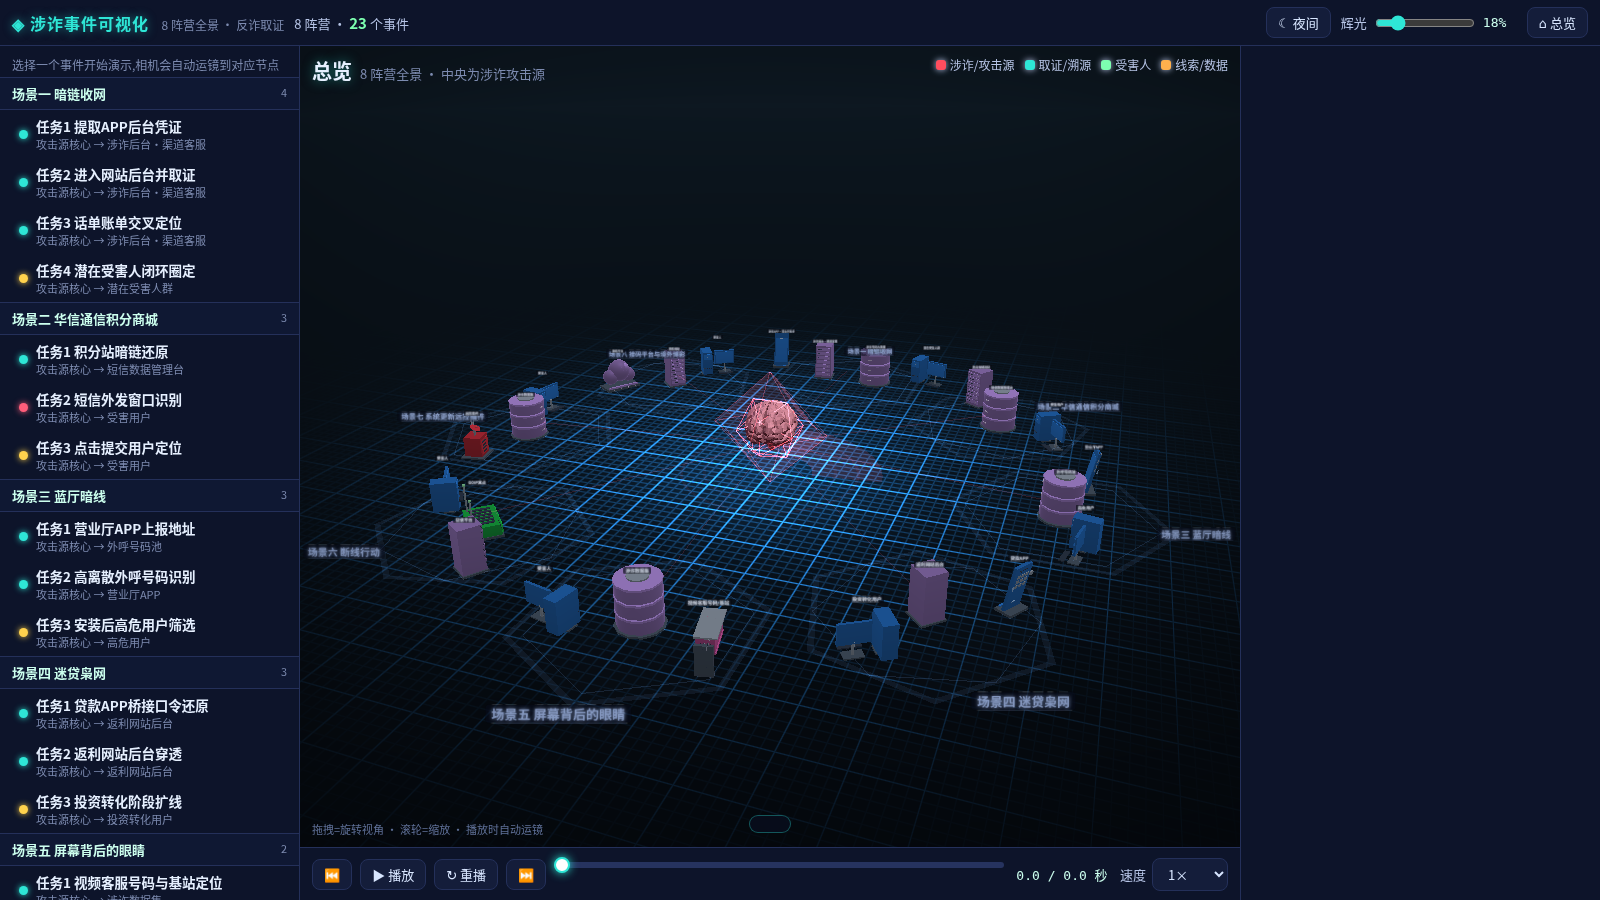
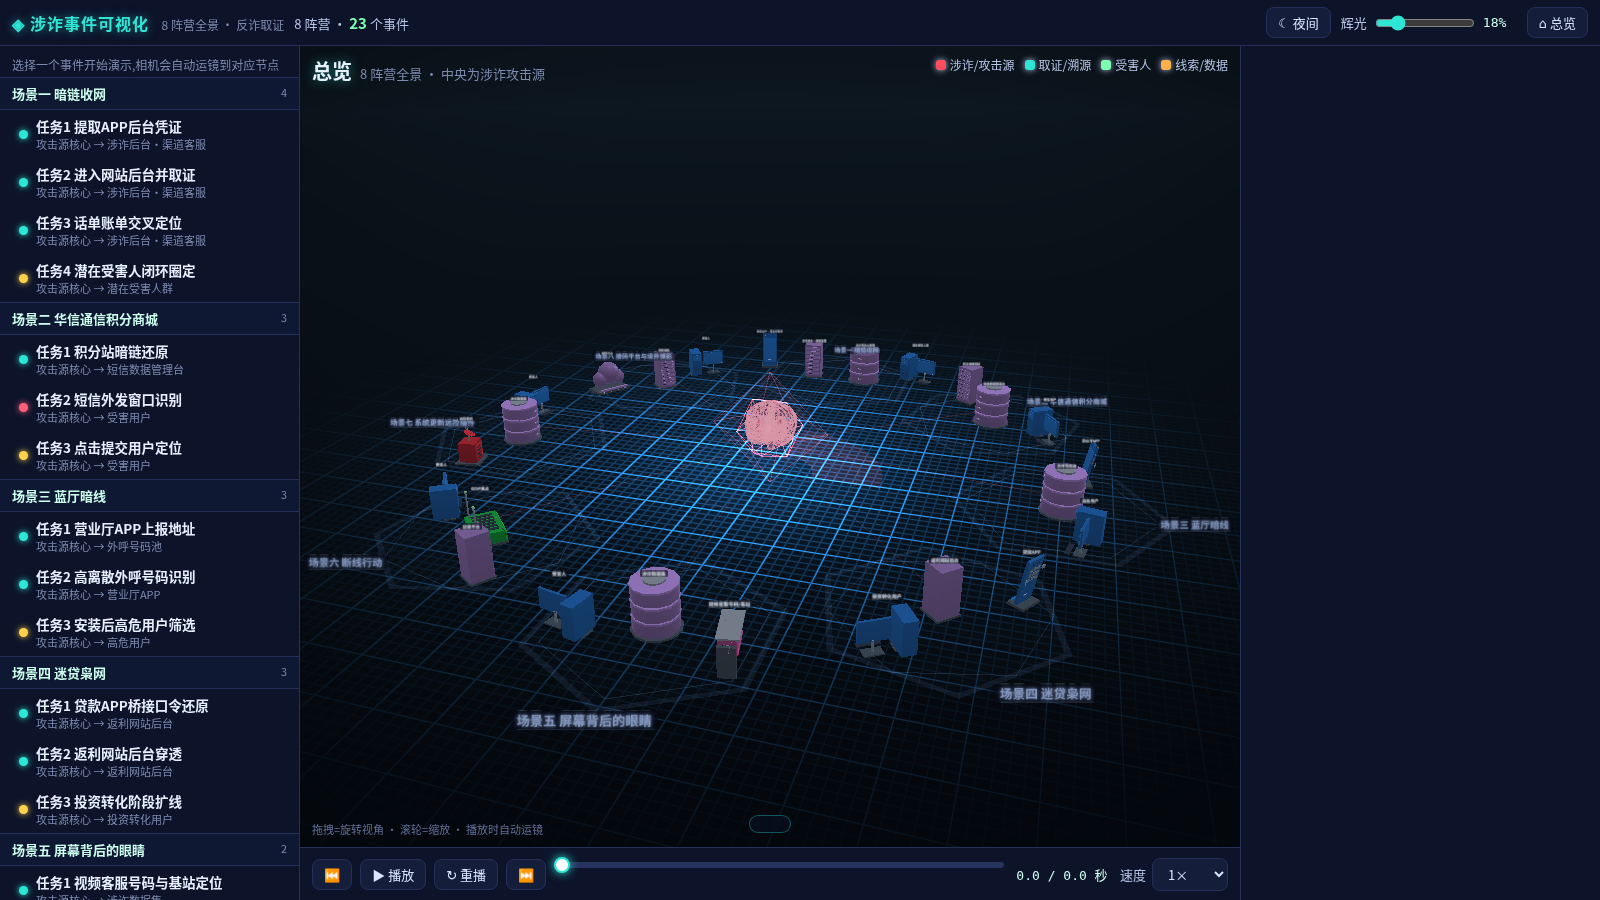
大脑全息化:半透明实体+特征边线框(普通混合消除泛白),压暗核心中央辉光

Changed region(s): [[0.1875, 0.3422, 0.7812, 0.8089], [0.4375, 0.8089, 0.4688, 0.84]]

diff --git a/js/stage-world.js b/js/stage-world.js
@@ -83,7 +83,7 @@ function Stage(canvas, host) {
   const coreMat = holoMat('#ff4d5e', { base: 0.04, rim: 0.55, pow: 1.8, scan: 0.04, glow: 0.55 });
   const coreMesh = new T.Mesh(new T.IcosahedronGeometry(2.4, 0), coreMat); coreMesh.position.y = 3.4; coreMesh.visible = false; core.add(coreMesh);
   const coreEdge = new T.LineSegments(new T.EdgesGeometry(new T.IcosahedronGeometry(2.4, 0)), lineMat(col('atk'), 0.8)); coreEdge.position.y = 3.4; core.add(coreEdge);
-  const shellMat = holoMat('#ff4d5e', { base: 0.02, rim: 0.4, pow: 2.6, scan: 0.08, glow: 0.8 });
+  const shellMat = holoMat('#ff4d5e', { base: 0.015, rim: 0.3, pow: 2.8, scan: 0.06, glow: 0.35 });
   const shell = new T.Mesh(new T.OctahedronGeometry(4.2, 0), shellMat); shell.position.y = 3.4; core.add(shell);
   const shellEdge = new T.LineSegments(new T.EdgesGeometry(new T.OctahedronGeometry(4.2, 0)), lineMat(col('atk'), 0.35)); shellEdge.position.y = 3.4; core.add(shellEdge);
   // 核心内部:大脑造型(两瓣 + 脑沟凸起,受场景灯光)
@@ -97,12 +97,16 @@ function Stage(canvas, host) {
       geo.setAttribute('position', new T.BufferAttribute(pos, 3));
       geo.setIndex(new T.BufferAttribute(idx, 1));
       geo.computeVertexNormals();
-      const mat = new T.MeshStandardMaterial({ color: new T.Color('#f3b8c6'), emissive: new T.Color('#b83a52'), emissiveIntensity: 0.3, roughness: 0.62, metalness: 0.05 });
-      const mesh = new T.Mesh(geo, mat); mesh.scale.setScalar(4.6); brain.add(mesh); brain.userData.mesh = mesh;
+      // 全息:半透明实体(普通混合,避免叠加泛白) + 发光线框
+      const mat = new T.MeshBasicMaterial({ color: new T.Color('#ff6f8f'), transparent: true, opacity: 0.2, depthWrite: false, side: T.DoubleSide });
+      const mesh = new T.Mesh(geo, mat); mesh.scale.setScalar(4.6); brain.add(mesh);
+      const wf = new T.LineSegments(new T.EdgesGeometry(geo, 24), new T.LineBasicMaterial({ color: new T.Color('#ffb3c6'), transparent: true, opacity: 0.55, depthWrite: false }));
+      wf.scale.setScalar(4.6); brain.add(wf);
+      brain.userData.mesh = mesh; brain.userData.wf = wf;
     } catch (e) { self.errors.push('brain:' + e.message); }
   })();
   // 脚下雷达环(多层)
-  const radar = []; for (let i = 0; i < 3; i++) { const m = new T.Mesh(new T.RingGeometry(3 + i * 1.6, 3.2 + i * 1.6, 72), addMat(col('atk'), 0.4, T.DoubleSide)); m.rotation.x = -Math.PI / 2; m.position.y = 0.05; core.add(m); radar.push(m); }
+  const radar = []; for (let i = 0; i < 3; i++) { const m = new T.Mesh(new T.RingGeometry(3 + i * 1.6, 3.2 + i * 1.6, 72), addMat(col('atk'), 0.28, T.DoubleSide)); m.rotation.x = -Math.PI / 2; m.position.y = 0.05; core.add(m); radar.push(m); }
   const sweepM = new T.Mesh(new T.RingGeometry(3, 8, 64, 1, 0, Math.PI * 0.5), addMat(col('atk'), 0.16, T.DoubleSide)); sweepM.rotation.x = -Math.PI / 2; sweepM.position.y = 0.06; core.add(sweepM);
   // 向 8 阵营放射的"攻击源"连线(常驻、低亮)
   const spokes = []; W.CAMPS.forEach(camp => {
@@ -227,7 +231,7 @@ function Stage(canvas, host) {
     sweepM.rotation.z = -t * 1.1; sweepM.material.color.copy(col('atk'));
     spokes.forEach(l => { l.material.color.copy(col('atk')); l.material.opacity = S.day ? 0.12 : 0.14 + 0.05 * Math.sin(t * 1.5); });
     for (const o of [coreEdge, shellEdge]) o.material.color.copy(col('atk'));
-    glow.add(0, 3.4, 0, 1.4 * pulse, col('atk'), 0.5);
+    glow.add(0, 5.1, 0, 0.5 * pulse, col('atk'), 0.22);
     // 节点 reset + 事件 + apply
     if (window.NODELIB) { for (const k in modelMap) { try { modelMap[k].update(t); } catch (e) {} } }
     nodes.forEach(n => { n.reset(); n.vis = (activeIds.indexOf(n._def.id) >= 0) ? 1 : 0; });
